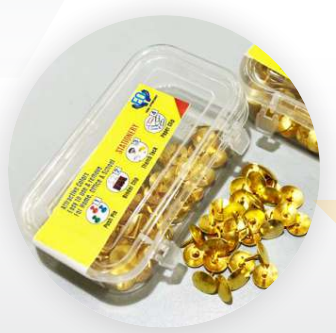
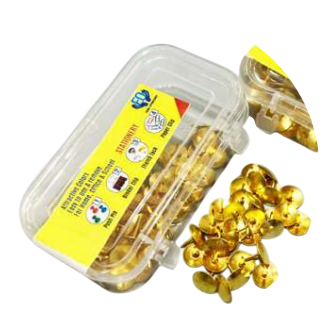
Add image assets from 146.png to 171.png

diff --git a/src/components/ImageCatalog.js b/src/components/ImageCatalog.js
@@ -20,44 +20,44 @@ import img19 from "../assets/119.jpg";
 import img12 from "../assets/112.jpg";
 import img17 from "../assets/117.jpg";
 import img8 from "../assets/108.jpg";
-import img9 from "../assets/109.jpg";
+import img9 from "../assets/109.png";
 import logo from "../assets/logo.png";
-import img36 from "../assets/136.jpg";
-import img35 from "../assets/135.jpg";
+import img36 from "../assets/136.png";
+import img35 from "../assets/135.png";
 import img37 from "../assets/137.png";
-import img38 from "../assets/138.jpg";
-import img39 from "../assets/139.jpg";
-import img40 from "../assets/140.jpg";
-import img42 from "../assets/142.jpg";
-import img43 from "../assets/143.jpg";
-import img44 from "../assets/144.jpg";
-import img45 from "../assets/145.jpg";
-import img46 from "../assets/146.jpg";
-import img47 from "../assets/147.jpg";
-import img48 from "../assets/148.jpg";
-import img49 from "../assets/149.jpg";
-import img50 from "../assets/150.jpg";
-import img51 from "../assets/151.jpg";
-import img52 from "../assets/152.jpg";
-import img53 from "../assets/153.jpg";
-import img54 from "../assets/154.jpg";
-import img55 from "../assets/155.jpg";
-import img56 from "../assets/156.jpg";
-import img57 from "../assets/157.jpg";
-import img58 from "../assets/158.jpg";
-import img59 from "../assets/159.jpg";
-import img60 from "../assets/160.jpg";
-import img61 from "../assets/161.jpg";
+import img38 from "../assets/138.png";
+import img39 from "../assets/139.png";
+import img40 from "../assets/140.png";
+import img42 from "../assets/142.png";
+import img43 from "../assets/143.png";
+import img44 from "../assets/144.png";
+import img45 from "../assets/145.png";
+import img46 from "../assets/146.png";
+import img47 from "../assets/147.png";
+import img48 from "../assets/148.png";
+import img49 from "../assets/149.png";
+import img50 from "../assets/150.png";
+import img51 from "../assets/151.png";
+import img52 from "../assets/152.png";
+import img53 from "../assets/153.png";
+import img54 from "../assets/154.png";
+import img55 from "../assets/155.png";
+import img56 from "../assets/156.png";
+import img57 from "../assets/157.png";
+import img58 from "../assets/158.png";
+import img59 from "../assets/159.png";
+import img60 from "../assets/160.png";
+import img61 from "../assets/161.png";
 import img62 from "../assets/162.png";
-import img63 from "../assets/163.jpg";
+import img63 from "../assets/163.png";
 import img64 from "../assets/164.png";
-import img65 from "../assets/165.jpg";
-import img66 from "../assets/166.jpg";
-import img67 from "../assets/167.jpg";
-import img68 from "../assets/168.jpg";
-import img69 from "../assets/169.jpg";
-import img70 from "../assets/170.jpg";
-import img71 from "../assets/171.jpg";
+import img65 from "../assets/165.png";
+import img66 from "../assets/166.png";
+import img67 from "../assets/167.png";
+import img68 from "../assets/168.png";
+import img69 from "../assets/169.png";
+import img70 from "../assets/170.png";
+import img71 from "../assets/171.png";
 
 const imageData = [
   {
@@ -683,12 +683,14 @@ const ImageCatalog = () => {
             )}
 
             <div>
-              <div className="bg-white rounded-2xl shadow-lg overflow-hidden hover:shadow-xl transition-shadow">
-                <img
-                  src={item.imageUrl}
-                  alt={item.title || "Product Image"}
-                  className="w-full h-[28rem] object-cover"
-                />
+              <div className="bg-white rounded-2xl shadow-lg overflow-hidden hover:shadow-xl transition-shadow min-h-[28rem] flex items-center justify-center">
+                <div className="transform scale-90">
+                  <img
+                    src={item.imageUrl}
+                    alt={item.title || "Product Image"}
+                    className="object-cover"
+                  />
+                </div>
               </div>
 
               <div className="mt-2 px-2">
